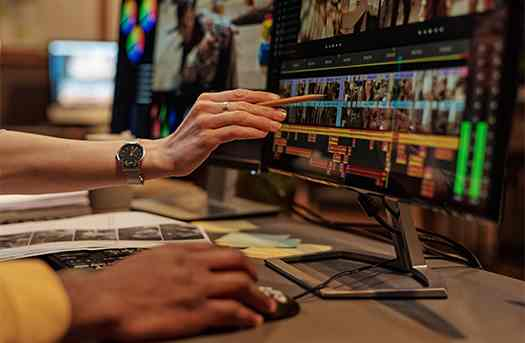
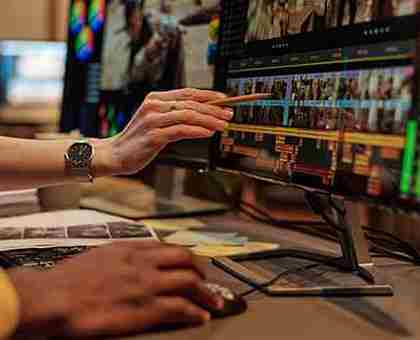
compress zoom gird images service section images

diff --git a/src/screens/DigitalMarketingAgencyinIndia/sections/ZoomGridSection/ZoomGridSection.tsx b/src/screens/DigitalMarketingAgencyinIndia/sections/ZoomGridSection/ZoomGridSection.tsx
@@ -115,7 +115,10 @@ export const ZoomGridSection = (): JSX.Element => {
 
           <div className="mb-8 md:mb-16">
             <p className="[font-family:'DM_Sans',Helvetica] font-normal text-[#030019] text-sm md:text-base lg:text-[26px] xl:text[26px] sm:text-[13px] lg:leading-[40px] lg:w-6xl xl:w-7xl">
-              Our clients have seen the impact, experienced the change, and loved the results. Now, it’s your turn. Take a look at the success we’ve achieved by building strong brands and sharing their authentic stories. At our agency, passion drives everything we do, and we’ll bring that same energy to your brand’s journey. Let’s create something extraordinary together.
+              Our clients have heard it, experienced it, and loved it. Now, it's
+              your turn. Take a look at what our digital marketing agency has
+              created and achieved out of our love for creating brands and building
+              their stories.
             </p>
           </div>
         </div>
@@ -124,7 +127,7 @@ export const ZoomGridSection = (): JSX.Element => {
           <div className="grid1" ref={gridRef}>
             {/* Row 1 */}
             <div className="tile" data-grid-item>
-              <img src="/12_Mastercard.jpg" alt="Project 1" />
+              <img src="/12_Mastercard.jpeg" alt="Project 1" />
             </div>
 
             {/* ✅ VIDEO (continues playing even while scrolling) */}
@@ -148,13 +151,13 @@ export const ZoomGridSection = (): JSX.Element => {
 
             {/* Row 2 */}
             <div className="tile" data-grid-item>
-              <img src="/11_Emech.jpg" alt="Project 4" />
+              <img src="/11_Emech.jpeg" alt="Project 4" />
             </div>
             <div className="tile" data-grid-item>
-              <img src="/12_HEM.jpg" alt="Project 5" />
+              <img src="/12_HEM.jpeg" alt="Project 5" />
             </div>
             <div className="tile" data-grid-item>
-              <img src="/09_Automag.jpg" alt="Project 6" />
+              <img src="/09_Automag.jpeg" alt="Project 6" />
             </div>
           </div>
         </div>

diff --git a/src/screens/AgencyinNaviMumbai/sections/ZoomGridSection/ZoomGridSection.tsx b/src/screens/AgencyinNaviMumbai/sections/ZoomGridSection/ZoomGridSection.tsx
@@ -115,7 +115,10 @@ export const ZoomGridSection = (): JSX.Element => {
 
           <div className="mb-8 md:mb-16">
             <p className="[font-family:'DM_Sans',Helvetica] font-normal text-[#030019] text-sm md:text-base lg:text-[26px] xl:text[26px] sm:text-[13px] lg:leading-[40px] lg:w-6xl xl:w-7xl">
-              Our clients don’t just see results, they feel them. As a trusted digital marketing agency in Navi Mumbai, we’ve delivered everything from “wow” moments to measurable wins, building brands that spark love, clicks, and conversions. Think of us as your creative growth partner, we turn your goals into spotlight moments. 
+              Our clients have heard it, experienced it, and loved it. Now, it's
+              your turn. Take a look at what our digital marketing agency has
+              created and achieved out of our love for creating brands and building
+              their stories.
             </p>
           </div>
         </div>
@@ -124,7 +127,7 @@ export const ZoomGridSection = (): JSX.Element => {
           <div className="grid1" ref={gridRef}>
             {/* Row 1 */}
             <div className="tile" data-grid-item>
-              <img src="/12_Mastercard.jpg" alt="Project 1" />
+              <img src="/12_Mastercard.jpeg" alt="Project 1" />
             </div>
 
             {/* ✅ VIDEO (continues playing even while scrolling) */}
@@ -148,13 +151,13 @@ export const ZoomGridSection = (): JSX.Element => {
 
             {/* Row 2 */}
             <div className="tile" data-grid-item>
-              <img src="/11_Emech.jpg" alt="Project 4" />
+              <img src="/11_Emech.jpeg" alt="Project 4" />
             </div>
             <div className="tile" data-grid-item>
-              <img src="/12_HEM.jpg" alt="Project 5" />
+              <img src="/12_HEM.jpeg" alt="Project 5" />
             </div>
             <div className="tile" data-grid-item>
-              <img src="/09_Automag.jpg" alt="Project 6" />
+              <img src="/09_Automag.jpeg" alt="Project 6" />
             </div>
           </div>
         </div>

diff --git a/src/screens/AgencyinThane/sections/ZoomGridSection/ZoomGridSection.tsx b/src/screens/AgencyinThane/sections/ZoomGridSection/ZoomGridSection.tsx
@@ -115,7 +115,10 @@ export const ZoomGridSection = (): JSX.Element => {
 
           <div className="mb-8 md:mb-16">
             <p className="[font-family:'DM_Sans',Helvetica] font-normal text-[#030019] text-sm md:text-base lg:text-[26px] xl:text[26px] sm:text-[13px] lg:leading-[40px] lg:w-6xl xl:w-7xl">
-              Every campaign we craft isn’t just marketing; it’s a story lived by our clients and loved by their audiences. From sparking conversations to building communities, our results aren’t numbers on a sheet their experiences that last. Ready for your story to be heard?
+              Our clients have heard it, experienced it, and loved it. Now, it's
+              your turn. Take a look at what our digital marketing agency has
+              created and achieved out of our love for creating brands and building
+              their stories.
             </p>
           </div>
         </div>
@@ -124,7 +127,7 @@ export const ZoomGridSection = (): JSX.Element => {
           <div className="grid1" ref={gridRef}>
             {/* Row 1 */}
             <div className="tile" data-grid-item>
-              <img src="/12_Mastercard.jpg" alt="Project 1" />
+              <img src="/12_Mastercard.jpeg" alt="Project 1" />
             </div>
 
             {/* ✅ VIDEO (continues playing even while scrolling) */}
@@ -148,13 +151,13 @@ export const ZoomGridSection = (): JSX.Element => {
 
             {/* Row 2 */}
             <div className="tile" data-grid-item>
-              <img src="/11_Emech.jpg" alt="Project 4" />
+              <img src="/11_Emech.jpeg" alt="Project 4" />
             </div>
             <div className="tile" data-grid-item>
-              <img src="/12_HEM.jpg" alt="Project 5" />
+              <img src="/12_HEM.jpeg" alt="Project 5" />
             </div>
             <div className="tile" data-grid-item>
-              <img src="/09_Automag.jpg" alt="Project 6" />
+              <img src="/09_Automag.jpeg" alt="Project 6" />
             </div>
           </div>
         </div>

diff --git a/src/screens/AgencyinPune/sections/ZoomGridSection/ZoomGridSection.tsx b/src/screens/AgencyinPune/sections/ZoomGridSection/ZoomGridSection.tsx
@@ -115,7 +115,10 @@ export const ZoomGridSection = (): JSX.Element => {
 
           <div className="mb-8 md:mb-16">
             <p className="[font-family:'DM_Sans',Helvetica] font-normal text-[#030019] text-sm md:text-base lg:text-[26px] xl:text[26px] sm:text-[13px] lg:leading-[40px] lg:w-6xl xl:w-7xl">
-              We don’t just make promises, we make results that can’t be ignored. Our campaigns have sparked growth, inspired loyalty, and turned ideas into brands people remember. Now, it’s your turn to shine. Let’s make your success louder than words. 
+              Our clients have heard it, experienced it, and loved it. Now, it's
+              your turn. Take a look at what our digital marketing agency has
+              created and achieved out of our love for creating brands and building
+              their stories.
             </p>
           </div>
         </div>
@@ -124,7 +127,7 @@ export const ZoomGridSection = (): JSX.Element => {
           <div className="grid1" ref={gridRef}>
             {/* Row 1 */}
             <div className="tile" data-grid-item>
-              <img src="/12_Mastercard.jpg" alt="Project 1" />
+              <img src="/12_Mastercard.jpeg" alt="Project 1" />
             </div>
 
             {/* ✅ VIDEO (continues playing even while scrolling) */}
@@ -148,13 +151,13 @@ export const ZoomGridSection = (): JSX.Element => {
 
             {/* Row 2 */}
             <div className="tile" data-grid-item>
-              <img src="/11_Emech.jpg" alt="Project 4" />
+              <img src="/11_Emech.jpeg" alt="Project 4" />
             </div>
             <div className="tile" data-grid-item>
-              <img src="/12_HEM.jpg" alt="Project 5" />
+              <img src="/12_HEM.jpeg" alt="Project 5" />
             </div>
             <div className="tile" data-grid-item>
-              <img src="/09_Automag.jpg" alt="Project 6" />
+              <img src="/09_Automag.jpeg" alt="Project 6" />
             </div>
           </div>
         </div>

diff --git a/src/screens/Main/sections/ZoomGridSection/ZoomGridSection.tsx b/src/screens/Main/sections/ZoomGridSection/ZoomGridSection.tsx
@@ -127,7 +127,7 @@ export const ZoomGridSection = (): JSX.Element => {
           <div className="grid1" ref={gridRef}>
             {/* Row 1 */}
             <div className="tile" data-grid-item>
-              <img src="/12_Mastercard.jpg" alt="Project 1" />
+              <img src="/12_Mastercard.jpeg" alt="Project 1" />
             </div>
 
             {/* ✅ VIDEO (continues playing even while scrolling) */}
@@ -151,13 +151,13 @@ export const ZoomGridSection = (): JSX.Element => {
 
             {/* Row 2 */}
             <div className="tile" data-grid-item>
-              <img src="/11_Emech.jpg" alt="Project 4" />
+              <img src="/11_Emech.jpeg" alt="Project 4" />
             </div>
             <div className="tile" data-grid-item>
-              <img src="/12_HEM.jpg" alt="Project 5" />
+              <img src="/12_HEM.jpeg" alt="Project 5" />
             </div>
             <div className="tile" data-grid-item>
-              <img src="/09_Automag.jpg" alt="Project 6" />
+              <img src="/09_Automag.jpeg" alt="Project 6" />
             </div>
           </div>
         </div>
